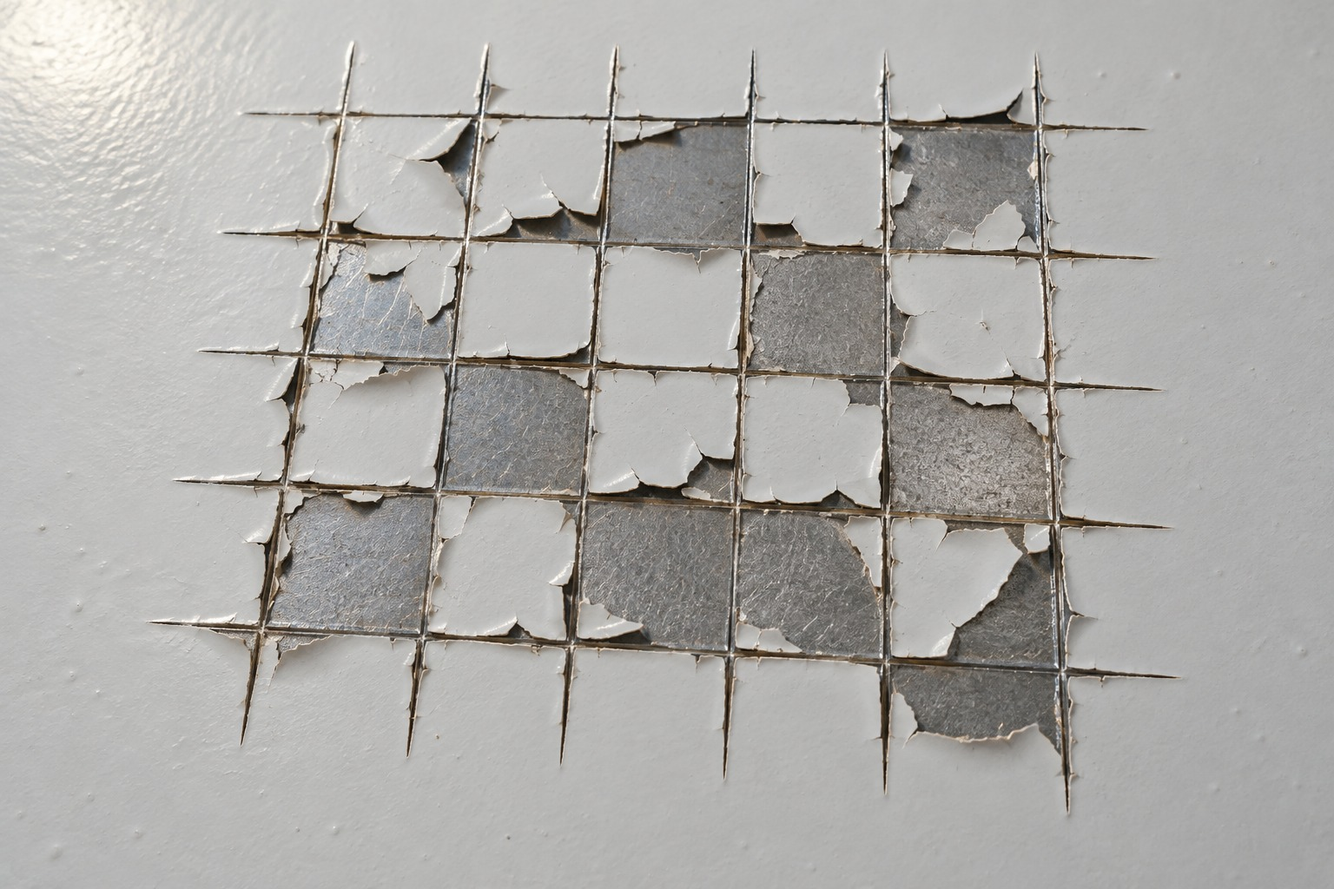
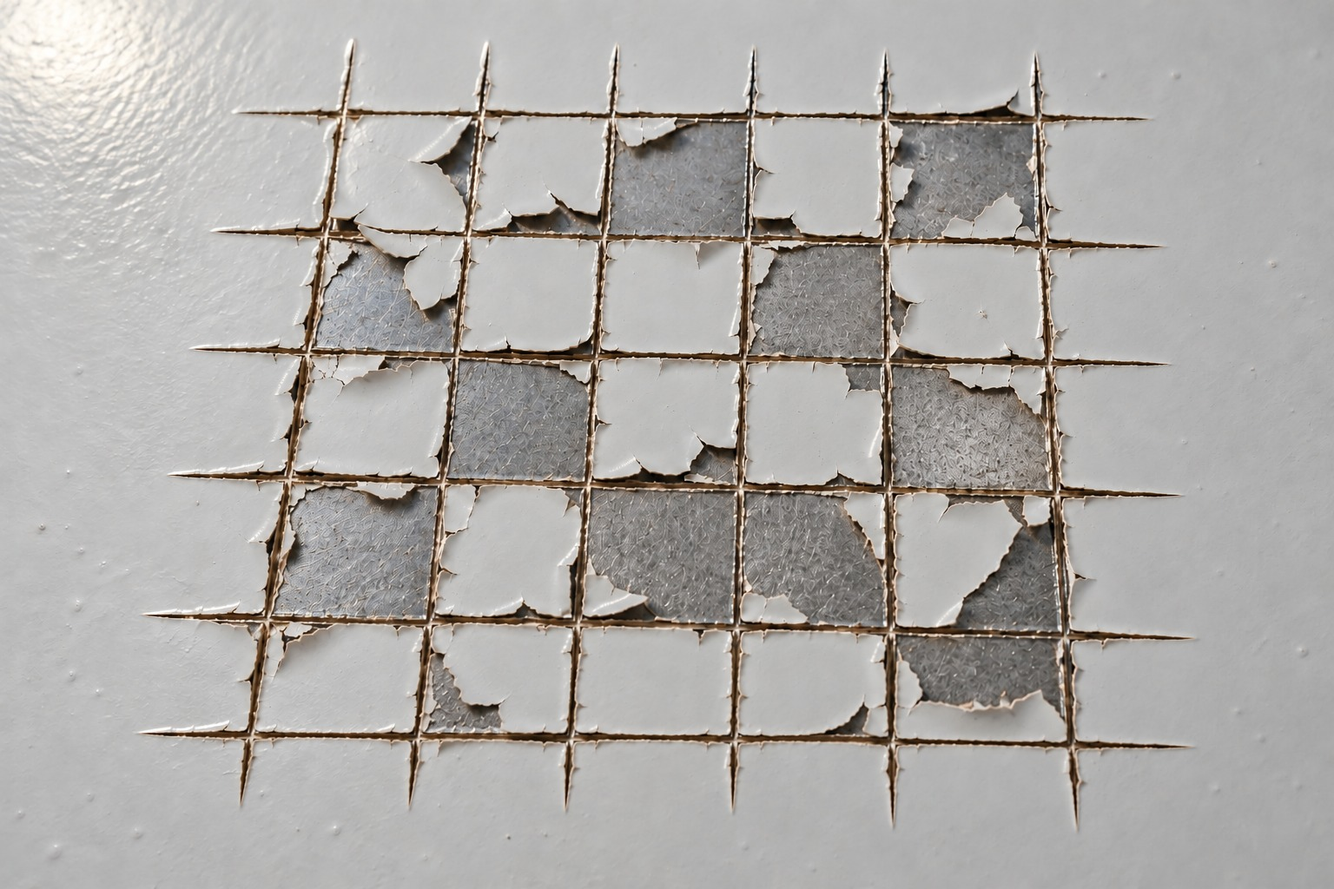
Suggest cross-cut grid corners on import and correct fifth example

Changed region(s): [[0.0938, 0.0625, 0.9062, 0.9375]]

diff --git a/src/apps/gitterschnitt/App.tsx b/src/apps/gitterschnitt/App.tsx
@@ -1,6 +1,7 @@
 import { useEffect, useRef, useState } from 'react';
 import type { PointerEvent } from 'react';
 import Worker from './analysis.worker?worker';
+import GridWorker from './grid.worker?worker';
 import { SupportFooter } from '../../components/SupportFooter';
 import { download } from '../../lib/download';
 import type { Project, Shot, Point, GT, RGB } from './types';
@@ -26,7 +27,8 @@ export default function App(){
  const url=await new Promise<string>((resolve,reject)=>{const r=new FileReader();r.onload=()=>resolve(String(r.result));r.onerror=reject;r.readAsDataURL(file)});
  const image=await new Promise<HTMLImageElement>((resolve,reject)=>{const i=new Image();i.onload=()=>resolve(i);i.onerror=()=>reject(Error('Ungültiges Bild.'));i.src=url});
  if(image.width*image.height>16000000)throw Error('Bild überschreitet 16 Megapixel. Bitte verkleinern.');
- const id=crypto.randomUUID();const s:Shot={id,name:file.name,component,position,dataUrl:url,width:image.width,height:image.height,corners:defaultCorners.map(p=>({...p})),spacing:1,thickness:50,substrate:'hard',tool:'Mehrschneiden-Handgerät',removal:'Bürsten',notes:'',coat:[],bare:[],tolerance:20,kerf:1,comment:'',revealed:false,synthetic};
+ const preview=document.createElement('canvas');const factor=Math.min(1,360/Math.max(image.width,image.height));preview.width=Math.round(image.width*factor);preview.height=Math.round(image.height*factor);preview.getContext('2d')!.drawImage(image,0,0,preview.width,preview.height);const rgba=preview.getContext('2d')!.getImageData(0,0,preview.width,preview.height).data;const suggestion=await new Promise<{status:'suggested'|'not-found';corners?:Point[]}>(resolve=>{const w=new GridWorker();const timer=setTimeout(()=>{w.terminate();resolve({status:'not-found'})},12000);w.onmessage=e=>{clearTimeout(timer);w.terminate();resolve(e.data)};w.onerror=()=>{clearTimeout(timer);w.terminate();resolve({status:'not-found'})};w.postMessage({pixels:rgba,width:preview.width,height:preview.height})});
+ const id=crypto.randomUUID();const s:Shot={id,name:file.name,component,position,dataUrl:url,width:image.width,height:image.height,corners:suggestion.corners??defaultCorners.map(p=>({...p})),gridStatus:suggestion.status,spacing:1,thickness:50,substrate:'hard',tool:'Mehrschneiden-Handgerät',removal:'Bürsten',notes:'',coat:[],bare:[],tolerance:20,kerf:1,comment:'',revealed:false,synthetic};
  setProject(p=>({...p,shots:[...p.shots,s]}));setActive(id);
  }
  async function run(task:()=>Promise<void>){setError('');setBusy(true);try{await task()}catch(e){setError(e instanceof Error?e.message:String(e))}finally{setBusy(false)}}
@@ -34,7 +36,7 @@ export default function App(){
  function analyze(){if(!shot||!pixels||!validCorners(shot.corners))return;setError('');setBusy(true);worker.current?.terminate();const w=new Worker();worker.current=w;w.onerror=()=>{setError('Bildauswertung fehlgeschlagen.');setBusy(false);w.terminate()};w.onmessage=e=>{setBusy(false);w.terminate();if(e.data.error){setError(e.data.error);return}setBrushHistory(h=>({...h,[shot.id]:[]}));update({mask:e.data.mask,baseMask:e.data.mask.slice(),revealed:true})};w.postMessage({pixels:pixels.data,width:pixels.width,height:pixels.height,shot});}
  function originalPoint(e:PointerEvent<SVGSVGElement>):Point{const r=e.currentTarget.getBoundingClientRect();return{x:Math.max(0,Math.min(1,(e.clientX-r.left)/r.width)),y:Math.max(0,Math.min(1,(e.clientY-r.top)/r.height))}}
  function sample(p:Point){if(!pixels||!shot)return;const x=Math.round(p.x*(pixels.width-1)),y=Math.round(p.y*(pixels.height-1));const rgb:RGB=[0,0,0];let count=0;for(let yy=Math.max(0,y-2);yy<=Math.min(pixels.height-1,y+2);yy++)for(let xx=Math.max(0,x-2);xx<=Math.min(pixels.width-1,x+2);xx++){for(let k=0;k<3;k++)rgb[k]+=pixels.data[(yy*pixels.width+xx)*4+k];count++}const ref=rgb.map(v=>v/count) as RGB;const key=mode==='coat'?'coat':'bare';if(shot[key].length>=100){setError('Maximal 100 Referenzen pro Klasse.');return}const points=key==='coat'?'coatPoints':'barePoints';update({[key]:[...shot[key],ref],[points]:[...(shot[points]??shot[key].map(()=>null)),p]},true)}
- function moveCorner(p:Point,index:number){if(!shot)return;const corners=shot.corners.map((a,i)=>i===index?p:a);update({corners},true)}
+ function moveCorner(p:Point,index:number){if(!shot)return;const corners=shot.corners.map((a,i)=>i===index?p:a);update({corners,gridStatus:'manual'},true)}
  function canvasPoint(e:PointerEvent<HTMLCanvasElement>){const r=e.currentTarget.getBoundingClientRect();return {x:(e.clientX-r.left)/r.width*(SIZE-1),y:(e.clientY-r.top)/r.height*(SIZE-1)}}
  function paint(e:PointerEvent<HTMLCanvasElement>){if(!shot?.revealed||!strokeMask.current||!painting.current)return;const p=canvasPoint(e),value=brush==='damage'?1:brush==='intact'?0:brush==='unknown'?2:3;strokeMask.current=paintMask(strokeMask.current,p.x,p.y,radius,value);const currentMask=strokeMask.current;setProject(pr=>({...pr,shots:pr.shots.map(s=>s.id===active?{...s,mask:currentMask,dirty:true}:s)}))}
  const stats=shot?.mask?summarizeMask(shot.mask):undefined;
@@ -44,7 +46,7 @@ export default function App(){
  function saveResult(){if(!shot||!stats||shot.blind===undefined||shot.final===undefined)return;update({savedResult:{component:shot.component,position:shot.position,name:shot.name,blind:shot.blind,proposal:areaGT(stats.percent),final:shot.final,percent:stats.percent,comment:shot.comment}});setProject(p=>({...p,shots:p.shots.map(s=>s.id===active?{...s,dirty:false}:s)}))}
  function csv(){const quote=(v:unknown)=>`"${String(v??'').replaceAll('"','""')}"`;const rows=[['Bauteil','Position','Foto','Visuelle Einstufung','GT-Vorschlag (aus Fläche)','GT-Wert (final)','Flächenanteil [%]','Kommentar'],...project.shots.filter(s=>s.savedResult).map(s=>{const r=s.savedResult!;return[r.component,r.position,r.name,r.blind,r.proposal,r.final,r.percent,r.comment]})];download(new Blob(['\ufeff'+rows.map(r=>r.map(quote).join(';')).join('\r\n')],{type:'text/csv;charset=utf-8'}),'gitterschnitt.csv')}
  return <div className="gt-app"><p className="eyebrow">Bildgestützte Beschichtungsprüfung</p><h1>Gitterschnitt</h1>
- <details><summary>Programmbeschreibung und Grenzen</summary><p>Fotos eines Gitterschnitts werden perspektivisch entzerrt und anhand markierter Farbreferenzen ausgewertet. Nur die Fläche zwischen den äußersten sechs Schnitten jeder Richtung zählt. Äußere Abplatzungen zählen nicht mit. Zuerst visuell GT0–GT5 wählen; danach wird die rechnerische Auswertung sichtbar.</p><p>In Anlehnung an DIN EN ISO 2409:2020-12. Die Norm verlangt eine visuelle Einstufung; eine fotografische Flächenmessung ist kein Ersatz und keine Messung der Haftfestigkeit. Geeignet für deckende, nicht strukturierte Beschichtungen bis 250 µm. Schnitte müssen das Substrat erreichen; dies muss außerhalb der App geprüft werden.</p><p>Sechs Schnitte pro Richtung ergeben 25 Felder. Vier Eckpunkte grenzen das Gitter ein. Schnittbreite wird auf der entzerrten Ansicht in Pixeln eingestellt: schmale Schnittstreifen zählen nicht als Abplatzung, bleiben aber Teil der festen Bezugsfläche. Diese digitale Konvention ist keine zusätzliche Normvorgabe. Zu breite Streifen können echte Schäden verdecken; die Maske muss kontrolliert werden.</p><p>Unklare Bereiche werden gelb markiert. Der angezeigte Abplatzungsanteil ist dann eine Untergrenze; die obere Grenze schließt alle unklaren Pixel ein. Rundung betrifft nur die Anzeige. Mehrere Fotos derselben Position sind keine unabhängigen Prüfungen.</p><p>Alle Bilder bleiben im Browser. Änderungen regelmäßig als ZIP speichern; beim Schließen können ungespeicherte Daten verloren gehen. KI-generierte Übungsbilder haben keine validierten GT-Referenzwerte.</p></details>
+ <details><summary>Programmbeschreibung und Grenzen</summary><p>Fotos eines Gitterschnitts werden perspektivisch entzerrt und anhand markierter Farbreferenzen ausgewertet. Nur die Fläche zwischen den äußersten sechs Schnitten jeder Richtung zählt. Äußere Abplatzungen zählen nicht mit. Zuerst visuell GT0–GT5 wählen; danach wird die rechnerische Auswertung sichtbar.</p><p>In Anlehnung an DIN EN ISO 2409:2020-12. Die Norm verlangt eine visuelle Einstufung; eine fotografische Flächenmessung ist kein Ersatz und keine Messung der Haftfestigkeit. Geeignet für deckende, nicht strukturierte Beschichtungen bis 250 µm. Schnitte müssen das Substrat erreichen; dies muss außerhalb der App geprüft werden.</p><p>Sechs Schnitte pro Richtung ergeben 25 Felder. Beim Bildimport sucht die App nach zwei Gruppen mit je sechs Schnittlinien und schlägt vier Eckpunkte vor. Der Vorschlag erscheint erst nach der visuellen Einstufung und muss kontrolliert werden; bei fehlender Erkennung wird manuell begrenzt. Vier Eckpunkte grenzen das Gitter ein. Schnittbreite wird auf der entzerrten Ansicht in Pixeln eingestellt: schmale Schnittstreifen zählen nicht als Abplatzung, bleiben aber Teil der festen Bezugsfläche. Diese digitale Konvention ist keine zusätzliche Normvorgabe. Zu breite Streifen können echte Schäden verdecken; die Maske muss kontrolliert werden.</p><p>Unklare Bereiche werden gelb markiert. Der angezeigte Abplatzungsanteil ist dann eine Untergrenze; die obere Grenze schließt alle unklaren Pixel ein. Rundung betrifft nur die Anzeige. Mehrere Fotos derselben Position sind keine unabhängigen Prüfungen.</p><p>Alle Bilder bleiben im Browser. Änderungen regelmäßig als ZIP speichern; beim Schließen können ungespeicherte Daten verloren gehen. KI-generierte Übungsbilder haben keine validierten GT-Referenzwerte.</p></details>
  <section className="controls"><div className="input-grid"><label>Projektname<input value={project.name} onChange={e=>setProject({...project,name:e.target.value})}/></label><label>Projekt öffnen (ZIP)<input type="file" accept=".zip" disabled={busy} onChange={e=>{const f=e.target.files?.[0];if(f)void run(async()=>{const p=decodeProject(new Uint8Array(await f.arrayBuffer()));commit(p);setActive(p.shots[0]?.id??'')});e.target.value=''}}/></label></div><div className="gt-toolbar"><button disabled={busy} onClick={()=>download(new Blob([encodeProject(project)],{type:'application/zip'}),'gitterschnitt-projekt.zip')}>Projekt als ZIP herunterladen</button><button onClick={csv}>Ergebnisse als CSV</button><button disabled={!history.length||busy} onClick={()=>{setProject(history[history.length-1]);setHistory(h=>h.slice(0,-1))}}>Rückgängig</button></div></section>
  {error&&<p className="error" role="alert">{error}</p>}{busy&&<p role="status">Bild wird verarbeitet …</p>}
  <div className="gt-layout"><aside className="controls"><h2>Bauteile und Aufnahmen</h2><label>Bauteil für neue Bilder<input value={component} onChange={e=>setComponent(e.target.value)}/></label><label>Position für neue Bilder<input value={position} onChange={e=>setPosition(e.target.value)}/></label><label>Bilder hinzufügen<input type="file" accept="image/jpeg,image/png,image/webp" multiple disabled={busy} onChange={e=>{const files=Array.from(e.target.files??[]);void run(async()=>{for(const f of files)await importImage(f)});e.target.value=''}}/></label><div className="gt-list">{project.shots.map(s=><button key={s.id} disabled={busy} aria-current={s.id===active} onClick={()=>setActive(s.id)}>{s.component} / {s.position}<br/>{s.name}{s.blind!==undefined?' · eingestuft':''}</button>)}</div><details><summary>Übungsbilder laden</summary>{[0,1,2,3,4,5].map(i=><button key={i} disabled={busy} onClick={()=>void example(i)}>Übungsbild {i+1}</button>)}<p className="gt-hint">KI-generierte Bilder verschiedener Schadensausprägungen. Ohne gesicherte GT-Zuordnung.</p></details></aside>
@@ -54,7 +56,7 @@ export default function App(){
  <div className="controls"><h2>{shot.name}</h2><div className="input-grid"><label>Bauteil<input value={shot.component} disabled={busy} onChange={e=>update({component:e.target.value})}/></label><label>Position<input value={shot.position} disabled={busy} onChange={e=>update({position:e.target.value})}/></label><label>Aufnahmename<input value={shot.name} disabled={busy} onChange={e=>update({name:e.target.value})}/></label><label>Schichtdicke / µm<input type="number" min="0.1" step="0.1" value={shot.thickness} disabled={busy} onChange={e=>update({thickness:Number(e.target.value)})}/></label><label>Substrat<select value={shot.substrate} disabled={busy} onChange={e=>update({substrate:e.target.value as Shot['substrate']})}><option value="hard">Hart (Metall, Kunststoff)</option><option value="soft">Weich (Holz, Putz)</option></select></label><label>Schnittabstand / mm<select value={shot.spacing} disabled={busy} onChange={e=>update({spacing:Number(e.target.value)})}>{[1,2,3].map(n=><option key={n} value={n}>{fmt(n)}</option>)}</select></label></div><p className="gt-hint">{recommendation?`Empfohlener Abstand: ${fmt(recommendation)} mm. Gittergröße: ${fmt(5*shot.spacing)} × ${fmt(5*shot.spacing)} mm.`:'Schichtdicke außerhalb des Anwendungsbereichs.'}{recommendation&&recommendation!==shot.spacing?' Gewählter Abstand weicht von der Normempfehlung ab.':''}</p><details><summary>Prüfdokumentation</summary><label>Schneidgerät<select value={shot.tool} onChange={e=>update({tool:e.target.value})}>{['Mehrschneiden-Handgerät','Einschneiden-Handgerät','Cuttermesser','Mehrschneiden motorisch','Einschneiden motorisch'].map(t=><option key={t}>{t}</option>)}</select></label><label>Entfernung loser Partikel<select value={shot.removal} onChange={e=>update({removal:e.target.value})}>{['Bürsten','Klebeband','Druckluft / Stickstoff','Anderes Verfahren'].map(t=><option key={t}>{t}</option>)}</select></label><label>Prüfdatum, Beschichtungsaufbau, Bedingungen, Abweichungen und Notizen<textarea value={shot.notes} onChange={e=>update({notes:e.target.value})}/></label></details></div>
  <div className="gt-toolbar"><label>Im Original markieren<select value={mode} disabled={busy} onChange={e=>setMode(e.target.value)}><option value="corner">Gitterecken</option><option value="coat">Referenz: intakter Lack</option><option value="bare">Referenz: freigelegte Fläche</option></select></label>{mode==='corner'&&<label>Ecke<select value={corner} onChange={e=>setCorner(Number(e.target.value))}>{['Oben links','Oben rechts','Unten rechts','Unten links'].map((s,i)=><option value={i} key={s}>{s}</option>)}</select></label>}<button disabled={busy} onClick={rotateImage}>Foto 90° drehen</button><label>Zoom<select value={zoom} onChange={e=>setZoom(Number(e.target.value))}>{[1,1.5,2,3].map(z=><option key={z} value={z}>{fmt(z)}×</option>)}</select></label></div>
  {mode==='corner'&&<div className="input-grid"><label>Ecke {corner+1}: horizontal / %<input type="number" min="0" max="100" step="0.1" disabled={busy} value={Number((shot.corners[corner].x*100).toFixed(1))} onChange={e=>moveCorner({...shot.corners[corner],x:Math.max(0,Math.min(1,Number(e.target.value)/100))},corner)}/></label><label>Ecke {corner+1}: vertikal / %<input type="number" min="0" max="100" step="0.1" disabled={busy} value={Number((shot.corners[corner].y*100).toFixed(1))} onChange={e=>moveCorner({...shot.corners[corner],y:Math.max(0,Math.min(1,Number(e.target.value)/100))},corner)}/></label></div>}
- <p className="gt-hint">Die Startbegrenzung ist eine Platzierungshilfe, keine automatische Erkennung. Ecken an die Kreuzungen der äußersten Schnitte setzen: klicken oder ziehen. Die sechs Linien je Richtung kontrollieren.</p>
+ <p className="gt-hint">{shot.gridStatus==='suggested'?'Gitter automatisch vorgeschlagen – alle sechs Schnittlinien je Richtung prüfen und Ecken bei Bedarf korrigieren.':shot.gridStatus==='manual'?'Gitterbegrenzung manuell angepasst.':'Gitter nicht zuverlässig erkannt – bitte manuell begrenzen. Die Startbegrenzung ist nur eine Platzierungshilfe.'} Ecken an die Kreuzungen der äußersten Schnitte setzen: klicken oder ziehen. Die sechs Linien je Richtung kontrollieren.</p>
  <div className="gt-views"><figure className="gt-view"><figcaption><strong>Original: hier Gitterecken und Farbreferenzen markieren</strong></figcaption><div className="gt-toolbar"><label>Zoom Original<select value={originalZoom} onChange={e=>setOriginalZoom(Number(e.target.value))}>{[1,1.5,2,3,4,6,8].map(z=><option key={z} value={z}>{fmt(z)}×</option>)}</select></label><button onClick={()=>setOriginalZoom(1)}>Original einpassen</button></div><p className="gt-hint">Zum Vergrößern Zoom wählen. Im vergrößerten Original an die gewünschte Stelle scrollen und die Farbreferenz anklicken.</p><div className="gt-original-window"><svg viewBox="0 0 1000 1000" preserveAspectRatio="none" style={{aspectRatio:`${shot.width}/${shot.height}`,width:`${originalZoom*100}%`,maxHeight:'none',maxWidth:'none'}} onPointerDown={e=>{if(busy)return;const p=originalPoint(e);if(mode==='coat'||mode==='bare'){sample(p);return}if(mode==='corner'){e.currentTarget.setPointerCapture(e.pointerId);const nearest=shot.corners.findIndex(a=>Math.hypot(a.x-p.x,a.y-p.y)<.04);drag.current=nearest>=0?nearest:corner;moveCorner(p,drag.current)}}} onPointerMove={e=>{if(drag.current!==null)moveCorner(originalPoint(e),drag.current)}} onPointerUp={()=>{drag.current=null}} onPointerCancel={()=>{drag.current=null}}><image href={shot.dataUrl} width="1000" height="1000" preserveAspectRatio="none"/>{grid&&Array.from({length:6},(_,i)=>{const a=mapPoint(grid,i/5,0),b=mapPoint(grid,i/5,1),c=mapPoint(grid,0,i/5),d=mapPoint(grid,1,i/5);return <g key={i} stroke="#00efad" strokeWidth="3"><line x1={a.x*1000} y1={a.y*1000} x2={b.x*1000} y2={b.y*1000}/><line x1={c.x*1000} y1={c.y*1000} x2={d.x*1000} y2={d.y*1000}/></g>})}{shot.corners.map((p,i)=><g key={i}><circle cx={p.x*1000} cy={p.y*1000} r="14" fill={corner===i?'#ffcf00':'#fff'} stroke="#00563f" strokeWidth="4"/><text x={p.x*1000+18} y={p.y*1000-15} fontSize="26" fill="#00563f" stroke="white" strokeWidth=".5">{i+1}</text></g>)}{(['coat','bare'] as const).flatMap(key=>(shot[key==='coat'?'coatPoints':'barePoints']??[]).map((p,i)=>p?<g key={`${key}${i}`}><circle cx={p.x*1000} cy={p.y*1000} r="10" fill={key==='coat'?'#00ffff':'#ffcc00'} stroke="black" strokeWidth="3"/><text x={p.x*1000+15} y={p.y*1000-12} fontSize="28" fill="black" stroke="white" strokeWidth="1" paintOrder="stroke">{key==='coat'?'L':'A'}{i+1}</text></g>:null))}</svg></div></figure>
  <figure className="gt-view"><figcaption><strong>Entzerrte Ansicht: hier Flächen mit dem Pinsel korrigieren</strong></figcaption>{shot.revealed&&shot.mask&&<div className="gt-toolbar"><label>Pinsel<select value={brush} onChange={e=>setBrush(e.target.value)}><option value="damage">Abplatzung</option><option value="intact">Intakter Lack</option><option value="unknown">Unklar</option><option value="kerf">Schnittspur</option></select></label><label>Radius / Pixel<input type="number" value={radius} min="1" max="50" onChange={e=>setRadius(Math.max(1,Math.min(50,Number(e.target.value))))}/></label><button disabled={busy||!(brushHistory[shot.id]?.length)} onClick={()=>{const stack=brushHistory[shot.id]??[];if(!stack.length)return;update({mask:stack[stack.length-1].slice()});setBrushHistory(h=>({...h,[shot.id]:stack.slice(0,-1)}))}}>Letzten Pinselstrich rückgängig</button><button disabled={busy||!shot.baseMask} onClick={()=>{if(!shot.baseMask)return;update({mask:shot.baseMask.slice()});setBrushHistory(h=>({...h,[shot.id]:[]}))}}>Alle Pinselkorrekturen entfernen</button>{!shot.baseMask&&<p className="gt-hint">Bei älteren Projekten zuerst neu auswerten, um einen Ausgangsstand für Pinselkorrekturen anzulegen.</p>}</div>}<div style={{overflow:'auto',maxHeight:650}}><canvas ref={canvas} width={SIZE} height={SIZE} aria-label="Entzerrte Gitterfläche; nach Aufdecken manuell bearbeitbar" style={{width:`${zoom*100}%`,maxHeight:'none'}} onPointerDown={e=>{if(busy||!shot.revealed||!shot.mask)return;e.currentTarget.setPointerCapture(e.pointerId);setHistory(h=>[...h.slice(-9),project]);setBrushHistory(h=>({...h,[shot.id]:[...(h[shot.id]??[]).slice(-19),shot.mask!.slice()]}));strokeMask.current=shot.mask.slice();painting.current=true;paint(e)}} onPointerMove={e=>paint(e)} onPointerUp={()=>{painting.current=false;strokeMask.current=null}} onPointerCancel={()=>{painting.current=false;strokeMask.current=null}}/></div></figure></div>
  <section className="controls"><h3>Farbreferenzen im Original markieren</h3><p>Im Original mindestens eine intakte Lackstelle markieren, bei Bedarf mehrere helle und dunkle Stellen. Eine zusätzliche freigelegte Referenzfläche verbessert die Zuordnung.</p>{(['coat','bare'] as const).map(key=><div key={key}><span>{key==='coat'?'Intakter Lack':'Freigelegte Fläche'}: {shot[key].length} Referenzen</span><div className="gt-colors">{shot[key].map((c,i)=><span key={i} className="gt-reference"><span className="gt-swatch" style={{background:`rgb(${c.join(',')})`}}/>{key==='coat'?'L':'A'}{i+1}<button disabled={busy} aria-label={`${key==='coat'?'L':'A'}${i+1} entfernen`} onClick={()=>{const points=key==='coat'?'coatPoints':'barePoints';update({[key]:shot[key].filter((_,j)=>j!==i),[points]:(shot[points]??shot[key].map(()=>null)).filter((_,j)=>j!==i)},true)}}>×</button></span>)}<button disabled={busy} onClick={()=>update({[key]:[],[key==='coat'?'coatPoints':'barePoints']:[]},true)}>Referenzen löschen</button></div></div>)}<div className="input-grid"><label>Farbtoleranz (nur ohne freigelegte Referenz)<input type="number" min="1" max="100" step="1" value={shot.tolerance} disabled={busy} onChange={e=>update({tolerance:Math.max(1,Math.min(100,Number(e.target.value)))},true)}/></label><label>Normale Schnittbreite / Pixel im entzerrten Bild<input type="number" min="0" max="10" step="0.1" value={shot.kerf} disabled={busy} onChange={e=>update({kerf:Math.max(0,Math.min(10,Number(e.target.value)))},true)}/></label></div><div className="gt-toolbar"><button disabled={busy||!shot.coat.length||!rect} onClick={analyze}>{shot.mask?'Neu auswerten (ersetzt manuelle Maske)':'Auswerten'}</button></div>

diff --git a/src/apps/gitterschnitt/grid.ts b/src/apps/gitterschnitt/grid.ts
@@ -1,0 +1,62 @@
+import type { Point } from './types';
+import { validCorners } from './logic';
+export interface GridSuggestion { corners?: Point[]; status: 'suggested' | 'not-found' }
+type Line = { theta: number; rho: number; votes: number };
+type Family = { theta: number; lines: Line[]; score: number };
+// Six equally spaced lines are evidence for a grid, not proof of correct geometry.
+function family(hist: Float32Array,theta:number,diagonal:number,minStep:number):Family|null {
+ const smooth=hist.map((v,i)=>v+(hist[i-1]??0)+(hist[i+1]??0));
+ const peaks:Line[]=[];
+ for(let i=2;i<smooth.length-2;i++)if(smooth[i]>=smooth[i-1]&&smooth[i]>smooth[i+1]&&smooth[i]>8)peaks.push({theta,rho:i-diagonal,votes:smooth[i]});
+ const selected:Line[]=[];
+ for(const p of peaks.sort((a,b)=>b.votes-a.votes)){if(selected.every(q=>Math.abs(q.rho-p.rho)>5))selected.push(p);if(selected.length>=30)break;}
+ selected.sort((a,b)=>a.rho-b.rho);
+ let best:Family|null=null;
+ for(let a=0;a<selected.length;a++)for(let b=a+1;b<selected.length;b++){
+ const step=(selected[b].rho-selected[a].rho)/5;if(step<minStep)continue;
+ const lines:Line[]=[];
+ for(let k=0;k<6;k++){const target=selected[a].rho+k*step;const nearby=selected.filter(p=>Math.abs(p.rho-target)<Math.max(3,step*.15));if(!nearby.length)break;lines.push(nearby.reduce((p,q)=>p.votes>q.votes?p:q));}
+ if(lines.length!==6||new Set(lines).size!==6)continue;
+ const strongest=Math.max(...lines.map(l=>l.votes)),weakest=Math.min(...lines.map(l=>l.votes));
+ if(weakest<strongest*.23||weakest<minStep*3.2)continue;
+ const residual=lines.reduce((s,l,k)=>s+Math.abs(l.rho-selected[a].rho-k*step),0)/step;
+ const score=lines.reduce((s,l)=>s+l.votes,0)*(1-residual*.15)*(weakest/strongest)**.25;
+ if(!best||score>best.score)best={theta,lines,score};
+ }return best;
+}
+function intersect(a:Line,b:Line):Point {const ca=Math.cos(a.theta),sa=Math.sin(a.theta),cb=Math.cos(b.theta),sb=Math.sin(b.theta),det=ca*sb-sa*cb;return{x:(a.rho*sb-sa*b.rho)/det,y:(ca*b.rho-a.rho*cb)/det};}
+export function detectGrid(pixels:Uint8ClampedArray,width:number,height:number):GridSuggestion {
+ if(width<80||height<80||pixels.length!==width*height*4)return{status:'not-found'};
+ const gray=new Float32Array(width*height);
+ for(let i=0;i<gray.length;i++)gray[i]=pixels[i*4]*.299+pixels[i*4+1]*.587+pixels[i*4+2]*.114;
+ const edges:{x:number;y:number;strength:number;angle:number}[]=[];
+ for(let y=2;y<height-2;y++)for(let x=2;x<width-2;x++){
+ const i=y*width+x;
+ const gx=gray[i-width+1]+2*gray[i+1]+gray[i+width+1]-gray[i-width-1]-2*gray[i-1]-gray[i+width-1];
+ const gy=gray[i+width-1]+2*gray[i+width]+gray[i+width+1]-gray[i-width-1]-2*gray[i-width]-gray[i-width+1];
+ const strength=Math.hypot(gx,gy);if(strength>35)edges.push({x,y,strength,angle:Math.atan2(gy,gx)});
+ }
+ if(edges.length<200)return{status:'not-found'};
+ edges.sort((a,b)=>b.strength-a.strength);const usable=edges.slice(0,12000);
+ const diagonal=Math.ceil(Math.hypot(width,height)),families:Family[]=[];
+ for(let degrees=0;degrees<180;degrees+=2){const theta=degrees*Math.PI/180,cos=Math.cos(theta),sin=Math.sin(theta),hist=new Float32Array(diagonal*2+1);for(const e of usable)if(Math.abs(Math.cos(e.angle-theta))>.9925)hist[Math.round(e.x*cos+e.y*sin)+diagonal]++;const f=family(hist,theta,diagonal,Math.min(width,height)*.065);if(f)families.push(f);}
+ let pair:[Family,Family]|null=null,score=0;
+ for(const a of families)for(const b of families){let difference=Math.abs(a.theta-b.theta)*180/Math.PI;if(difference>90)difference=180-difference;if(difference<72)continue;const s=Math.min(a.score,b.score);if(s>score){score=s;pair=[a,b]}}
+ if(!pair)return{status:'not-found'};
+ // Refine each outer line independently; this permits mild perspective convergence.
+ function refine(line:Line):Line{
+ let best=line;
+ for(let offset=-8;offset<=8;offset+=.5){const theta=line.theta+offset*Math.PI/180,cos=Math.cos(theta),sin=Math.sin(theta),hist=new Float32Array(diagonal*2+1);const center={x:width/2,y:height/2};const rho=line.rho+center.x*(cos-Math.cos(line.theta))+center.y*(sin-Math.sin(line.theta));
+ for(const e of usable){const d=e.x*cos+e.y*sin;if(Math.abs(d-rho)<7)hist[Math.round(d)+diagonal]++;}
+ for(let k=Math.max(1,Math.round(rho)+diagonal-5);k<=Math.min(hist.length-2,Math.round(rho)+diagonal+5);k++){const votes=hist[k-1]+hist[k]+hist[k+1];if(votes>best.votes)best={theta,rho:k-diagonal,votes};}
+ }return best;
+ }
+ const [a,b]=pair;const a0=refine(a.lines[0]),a5=refine(a.lines[5]),b0=refine(b.lines[0]),b5=refine(b.lines[5]);
+ let corners=[intersect(a0,b0),intersect(a5,b0),intersect(a5,b5),intersect(a0,b5)];
+ const center={x:corners.reduce((s,p)=>s+p.x,0)/4,y:corners.reduce((s,p)=>s+p.y,0)/4};corners.sort((p,q)=>Math.atan2(p.y-center.y,p.x-center.x)-Math.atan2(q.y-center.y,q.x-center.x));
+ const first=corners.reduce((best,p,i)=>p.x+p.y<corners[best].x+corners[best].y?i:best,0);corners=[...corners.slice(first),...corners.slice(0,first)].map(p=>({x:p.x/(width-1),y:p.y/(height-1)}));
+ if(!validCorners(corners)||corners.some(p=>p.x<0||p.x>1||p.y<0||p.y>1))return{status:'not-found'};
+ const area=Math.abs(corners.reduce((s,p,i)=>s+p.x*corners[(i+1)%4].y-corners[(i+1)%4].x*p.y,0))/2;
+ if(area<.04||area>.85)return{status:'not-found'};
+ return{status:'suggested',corners};
+}

diff --git a/tests/gitterschnitt-grid.test.ts b/tests/gitterschnitt-grid.test.ts
@@ -1,0 +1,18 @@
+import { describe,it,expect } from 'vitest';
+import { detectGrid } from '../src/apps/gitterschnitt/grid';
+import { homography,mapPoint } from '../src/apps/gitterschnitt/logic';
+const size=240;
+function render(corners:{x:number;y:number}[],count=6){
+ const data=new Uint8ClampedArray(size*size*4);for(let i=0;i<size*size;i++){data[i*4]=data[i*4+1]=data[i*4+2]=60;data[i*4+3]=255;}
+ const m=homography(corners);const lines=[];
+ for(let k=0;k<count;k++){const t=k/(count-1);lines.push([mapPoint(m,t,-.08),mapPoint(m,t,1.08)],[mapPoint(m,-.08,t),mapPoint(m,1.08,t)]);}
+ for(let y=0;y<size;y++)for(let x=0;x<size;x++)for(const [a,b] of lines){const dx=b.x-a.x,dy=b.y-a.y,t=((x-a.x)*dx+(y-a.y)*dy)/(dx*dx+dy*dy);if(t>=0&&t<=1&&Math.hypot(x-a.x-t*dx,y-a.y-t*dy)<1.2){for(let c=0;c<3;c++)data[(y*size+x)*4+c]=220;break;}}
+ return data;
+}
+describe('Gittervorschlag',()=>{
+ it('findet sechs Schnitte je Richtung und die äußeren Ecken',()=>{const c=[{x:45,y:40},{x:195,y:40},{x:195,y:190},{x:45,y:190}];const r=detectGrid(render(c),size,size);expect(r.status).toBe('suggested');r.corners!.forEach((p,i)=>{expect(p.x).toBeCloseTo(c[i].x/(size-1),1);expect(p.y).toBeCloseTo(c[i].y/(size-1),1)})});
+ it('findet ein gedrehtes Gitter',()=>{const c=[{x:70,y:25},{x:210,y:70},{x:165,y:210},{x:25,y:165}];const r=detectGrid(render(c),size,size);expect(r.status).toBe('suggested');r.corners!.forEach((p,i)=>expect(Math.hypot(p.x-c[i].x/(size-1),p.y-c[i].y/(size-1))).toBeLessThan(.04))});
+ it('erkennt leicht perspektivische Linien',()=>{const c=[{x:55,y:40},{x:185,y:48},{x:200,y:195},{x:40,y:190}];const r=detectGrid(render(c),size,size);expect(r.status).toBe('suggested');r.corners!.forEach((p,i)=>expect(Math.hypot(p.x-c[i].x/(size-1),p.y-c[i].y/(size-1))).toBeLessThan(.06))});
+ it('lehnt gleichmäßige Fläche und zu kleine Bilder ab',()=>{expect(detectGrid(new Uint8ClampedArray(size*size*4).fill(128),size,size).status).toBe('not-found');expect(detectGrid(new Uint8ClampedArray(4),1,1).status).toBe('not-found')});
+ it('lehnt ein Raster mit nur fünf Schnittlinien ab',()=>{expect(detectGrid(render([{x:40,y:40},{x:200,y:40},{x:200,y:200},{x:40,y:200}],5),size,size).status).toBe('not-found')});
+});

diff --git a/src/apps/gitterschnitt/project.ts b/src/apps/gitterschnitt/project.ts
@@ -21,6 +21,7 @@ export function decodeProject(bytes:Uint8Array):Project {
  const gt=(v:unknown)=>v===undefined||(Number.isInteger(v)&&Number(v)>=0&&Number(v)<=5);
  for(const s of p.shots){
  if(!s||![s.id,s.name,s.component,s.position,s.tool,s.removal,s.notes,s.comment].every(v=>typeof v==='string')||ids.has(s.id)||!files[s.path]||!/^image\/(jpeg|png|webp)$/.test(s.mime)||!Number.isInteger(s.width)||!Number.isInteger(s.height)||s.width<1||s.height<1||s.width*s.height>16000000||!validCorners(s.corners)||s.corners.some((a:{x:number;y:number})=>a.x<0||a.x>1||a.y<0||a.y>1)||![1,2,3].includes(s.spacing)||!['hard','soft'].includes(s.substrate)||!Number.isFinite(s.thickness)||s.thickness<=0||!Number.isFinite(s.tolerance)||s.tolerance<1||s.tolerance>100||!Number.isFinite(s.kerf)||s.kerf<0||s.kerf>10||!gt(s.blind)||!gt(s.final)||typeof s.revealed!=='boolean'||typeof s.synthetic!=='boolean'||(s.revealed&&s.blind===undefined))throw Error('Ungültige Aufnahme oder Geometrie.');
+ if(s.gridStatus!==undefined&&!['suggested','not-found','manual'].includes(s.gridStatus))throw Error('Ungültiger Gitterstatus.');
  ids.add(s.id);
  for(const refs of [s.coat,s.bare])if(!Array.isArray(refs)||refs.length>100||refs.some((r:unknown)=>!Array.isArray(r)||r.length!==3||r.some(v=>!Number.isFinite(v)||v<0||v>255)))throw Error('Ungültige Farbreferenzen.');
  if(s.dirty!==undefined&&typeof s.dirty!=='boolean')throw Error('Ungültiger Speicherstatus.');

diff --git a/src/apps/gitterschnitt/types.ts b/src/apps/gitterschnitt/types.ts
@@ -2,7 +2,7 @@ export type Point = { x: number; y: number };
 export type RGB = [number, number, number];
 export type GT = 0 | 1 | 2 | 3 | 4 | 5;
 export interface Shot {
- id: string; name: string; component: string; position: string; dataUrl: string;
+ gridStatus?: 'suggested' | 'not-found' | 'manual'; id: string; name: string; component: string; position: string; dataUrl: string;
  width: number; height: number; corners: Point[]; spacing: number;
  thickness: number; substrate: 'hard' | 'soft'; tool: string; removal: string; notes: string;
  coat: RGB[]; bare: RGB[]; coatPoints?: (Point | null)[]; barePoints?: (Point | null)[];

diff --git a/src/apps/gitterschnitt/grid.worker.ts b/src/apps/gitterschnitt/grid.worker.ts
@@ -1,0 +1,2 @@
+import { detectGrid } from './grid';
+self.onmessage=e=>{try{self.postMessage(detectGrid(e.data.pixels,e.data.width,e.data.height));}catch{self.postMessage({status:'not-found'});}};
